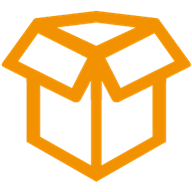
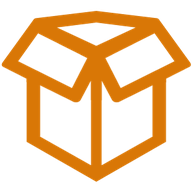
refactor: palette definitiva - brand oro/ambra + primary blu
- Logo convertito in oro/ambra (#D97706): caldo, professionale, premium
- Bottoni primari tornati al blu (#1e40af): professionalità e familiarita
- Brand oro usato per: link, active sidebar, badge, avatar, dot,
  gradienti login, focus input, loading bar
- Aggiunte variabili CSS --brand / --brand-light / --brand-bg
- theme-color aggiornato a #d97706
- Icone PWA e favicon rigenerate dal nuovo colore

Changed region(s): [[0.0, 0.0625, 1.0, 0.9375]]

diff --git a/logistic_hub/static/css/app.css b/logistic_hub/static/css/app.css
@@ -8,9 +8,12 @@
   --text: #0f172a;
   --text-secondary: #475569;
   --text-muted: #94a3b8;
-  --primary: #f39200;
-  --primary-light: #f6a832;
-  --primary-bg: #fff3e0;
+  --primary: #1e40af;
+  --primary-light: #3b82f6;
+  --primary-bg: #dbeafe;
+  --brand: #d97706;
+  --brand-light: #f6a832;
+  --brand-bg: #fffbeb;
   --accent: #0f172a;
   --navbar-bg: #0f172a;
   --navbar-text: #f8fafc;
@@ -19,9 +22,9 @@
   --navbar-input-border: #334155;
   --sidebar-bg: #ffffff;
   --sidebar-hover: #f1f5f9;
-  --sidebar-active: #fff3e0;
+  --sidebar-active: #fffbeb;
   --sidebar-text: #334155;
-  --sidebar-active-text: #f39200;
+  --sidebar-active-text: #d97706;
   --card-shadow: 0 1px 3px rgba(0,0,0,0.06), 0 1px 2px rgba(0,0,0,0.04);
   --card-shadow-hover: 0 4px 12px rgba(0,0,0,0.08);
   --radius: 8px;
@@ -52,9 +55,12 @@
     --text: #f1f5f9;
     --text-secondary: #94a3b8;
     --text-muted: #64748b;
-    --primary: #f6a832;
-    --primary-light: #f8c062;
-    --primary-bg: #3d2e00;
+    --primary: #3b82f6;
+    --primary-light: #60a5fa;
+    --primary-bg: #1e3a5f;
+    --brand: #f6a832;
+    --brand-light: #f8c062;
+    --brand-bg: #3d2e00;
     --accent: #f1f5f9;
     --navbar-bg: #020617;
     --navbar-text: #f1f5f9;
@@ -100,8 +106,8 @@ body {
 .login-page {
   display: flex; align-items: center; justify-content: center;
   min-height: 100vh; background: #0f172a;
-  background-image: radial-gradient(ellipse at top left, rgba(243,146,0,0.12), transparent 50%),
-                    radial-gradient(ellipse at bottom right, rgba(243,146,0,0.06), transparent 50%);
+  background-image: radial-gradient(ellipse at top left, rgba(217,119,6,0.12), transparent 50%),
+                    radial-gradient(ellipse at bottom right, rgba(217,119,6,0.06), transparent 50%);
 }
 .login-container { width: 100%; max-width: 400px; padding: 1.5rem; }
 .login-card {
@@ -118,7 +124,7 @@ body {
   width: 100%; padding: 0.75rem 1rem; background: #0f172a; border: 1px solid #334155;
   border-radius: var(--radius); color: #f8fafc; font-size: 0.95rem; outline: none; transition: border-color 0.15s;
 }
-.login-form .form-input:focus { border-color: var(--primary-light); box-shadow: 0 0 0 3px rgba(243,146,0,0.2); }
+.login-form .form-input:focus { border-color: var(--brand-light); box-shadow: 0 0 0 3px rgba(217,119,6,0.2); }
 .login-btn { width: 100%; padding: 0.75rem; margin-top: 0.5rem; font-size: 1rem; }
 .login-page .flash-message { margin-bottom: 1rem; }
 
@@ -159,7 +165,7 @@ body {
   border-left: 3px solid transparent;
 }
 .sidebar-item:hover { background: var(--sidebar-hover); }
-.sidebar-item.active { background: var(--sidebar-active); color: var(--sidebar-active-text); border-left-color: var(--primary-light); }
+.sidebar-item.active { background: var(--sidebar-active); color: var(--sidebar-active-text); border-left-color: var(--brand); }
 .sidebar-item svg { flex-shrink: 0; }
 
 .main-content {
@@ -199,7 +205,7 @@ body {
   background: var(--navbar-input-bg); border: 1px solid var(--navbar-input-border); border-radius: var(--radius);
   color: var(--navbar-text); font-size: 0.85rem; outline: none; transition: border-color 0.15s;
 }
-.search-input:focus { border-color: var(--primary-light); background: var(--navbar-input-bg); }
+.search-input:focus { border-color: var(--brand-light); background: var(--navbar-input-bg); }
 .search-input::placeholder { color: var(--navbar-muted); }
 .search-results {
   position: absolute; top: calc(100% + 4px); left: 0; right: 0;
@@ -246,7 +252,7 @@ body {
 .notif-panel.open, .user-panel.open { display: block; }
 .notif-header { display: flex; justify-content: space-between; align-items: center; padding: 1rem; border-bottom: 1px solid var(--border); }
 .notif-header strong { font-size: 0.85rem; }
-.notif-mark-all { font-size: 0.75rem; color: var(--primary-light); text-decoration: none; }
+.notif-mark-all { font-size: 0.75rem; color: var(--brand-light); text-decoration: none; }
 .notif-list { max-height: 320px; overflow-y: auto; }
 .notif-item { display: flex; gap: 0.75rem; padding: 0.75rem 1rem; text-decoration: none; color: var(--text); border-left: 3px solid transparent; transition: background 0.1s; }
 .notif-item:hover { background: var(--surface-hover); }
@@ -254,7 +260,7 @@ body {
 .notif-item.notif-error { border-left-color: var(--error); }
 .notif-item.notif-warning { border-left-color: var(--warning); }
 .notif-item.notif-info { border-left-color: var(--info); }
-.notif-dot { width: 8px; height: 8px; border-radius: 50%; background: var(--primary-light); margin-top: 5px; flex-shrink: 0; }
+.notif-dot { width: 8px; height: 8px; border-radius: 50%; background: var(--brand-light); margin-top: 5px; flex-shrink: 0; }
 .notif-content { flex: 1; min-width: 0; }
 .notif-title { font-size: 0.8rem; font-weight: 600; }
 .notif-msg { font-size: 0.75rem; color: var(--text-secondary); margin-top: 1px; white-space: nowrap; overflow: hidden; text-overflow: ellipsis; }
@@ -267,7 +273,7 @@ body {
 }
 .user-btn:hover { background: rgba(255,255,255,0.08); }
 .user-avatar {
-  width: 32px; height: 32px; border-radius: 50%; background: var(--primary-light);
+  width: 32px; height: 32px; border-radius: 50%; background: var(--brand);
   color: white; font-size: 0.75rem; font-weight: 700; display: flex; align-items: center; justify-content: center;
   flex-shrink: 0;
 }
@@ -296,7 +302,7 @@ body {
 /* BREADCRUMBS */
 .breadcrumbs { display: flex; align-items: center; gap: 0.4rem; margin-bottom: 0.75rem; font-size: 0.78rem; flex-wrap: wrap; }
 .breadcrumb-link { color: var(--text-muted); text-decoration: none; transition: color 0.1s; }
-.breadcrumb-link:hover { color: var(--primary-light); }
+.breadcrumb-link:hover { color: var(--brand-light); }
 .breadcrumb-sep { color: var(--text-muted); font-size: 0.7rem; }
 .breadcrumb-current { color: var(--text-secondary); font-weight: 500; }
 
@@ -313,7 +319,7 @@ body {
   cursor: pointer; text-decoration: none; transition: all 0.15s; line-height: 1.4;
 }
 .btn-primary { background: var(--primary); color: white; }
-.btn-primary:hover { background: #d97f00; }
+.btn-primary:hover { background: #1e3a8a; }
 .btn-secondary { background: var(--primary-bg); color: var(--primary); }
 .btn-secondary:hover { background: color-mix(in srgb, var(--primary-bg) 80%, var(--primary)); }
 .btn-danger { background: var(--error-bg); color: var(--error); }
@@ -338,7 +344,7 @@ body {
 .cliente-header { display: flex; align-items: center; gap: 1rem; margin-bottom: 1rem; }
 .cliente-avatar {
   width: 48px; height: 48px; border-radius: 12px;
-  background: linear-gradient(135deg, var(--primary-light), var(--primary));
+  background: linear-gradient(135deg, var(--brand-light), var(--brand));
   display: flex; align-items: center; justify-content: center;
   font-weight: 700; font-size: 1.25rem; color: #fff; flex-shrink: 0;
 }
@@ -413,7 +419,7 @@ body {
 .card { background: var(--surface); border-radius: var(--radius-lg); border: 1px solid var(--border); box-shadow: var(--card-shadow); }
 .card-header { display: flex; justify-content: space-between; align-items: center; padding: 1rem 1.5rem; border-bottom: 1px solid var(--border); font-weight: 600; color: var(--text); }
 .card-header h3 { font-size: 0.9rem; font-weight: 700; }
-.card-link { font-size: 0.78rem; color: var(--primary-light); text-decoration: none; }
+.card-link { font-size: 0.78rem; color: var(--brand); text-decoration: none; }
 .card-link:hover { text-decoration: underline; }
 .card-body { padding: 1rem 1.25rem; }
 
@@ -421,7 +427,7 @@ body {
 .activity-feed { display: flex; flex-direction: column; gap: 0; }
 .activity-item { display: flex; gap: 0.75rem; padding: 0.6rem 0; border-bottom: 1px solid var(--border-light); }
 .activity-item:last-child { border-bottom: none; }
-.activity-dot { width: 8px; height: 8px; border-radius: 50%; background: var(--primary-light); margin-top: 6px; flex-shrink: 0; }
+.activity-dot { width: 8px; height: 8px; border-radius: 50%; background: var(--brand-light); margin-top: 6px; flex-shrink: 0; }
 .activity-content { flex: 1; min-width: 0; }
 .activity-text { font-size: 0.82rem; color: var(--text); }
 .activity-time { font-size: 0.72rem; color: var(--text-muted); margin-top: 0.1rem; }
@@ -430,7 +436,7 @@ body {
 .doc-list { display: flex; flex-direction: column; }
 .doc-item { display: flex; align-items: center; gap: 0.75rem; padding: 0.6rem 0; text-decoration: none; color: var(--text); border-bottom: 1px solid var(--border-light); }
 .doc-item:last-child { border-bottom: none; }
-.doc-item:hover .doc-name { color: var(--primary-light); }
+.doc-item:hover .doc-name { color: var(--brand); }
 .doc-icon { color: var(--text-muted); flex-shrink: 0; }
 .doc-info { flex: 1; min-width: 0; }
 .doc-name { font-size: 0.82rem; font-weight: 500; transition: color 0.15s; }
@@ -467,7 +473,7 @@ body {
   background: var(--surface); color: var(--text-secondary); text-decoration: none;
   border: 1px solid var(--border); transition: all 0.15s;
 }
-.filter-chip:hover { border-color: var(--primary-light); color: var(--primary); }
+.filter-chip:hover { border-color: var(--brand-light); color: var(--brand); }
 .filter-chip.active { background: var(--primary); color: white; border-color: var(--primary); }
 
 /* TABLES */
@@ -478,7 +484,7 @@ table.table thead tr, .data-table thead tr { border-bottom: 2px solid var(--bord
 table.table tbody td, .data-table td { padding: 0.625rem 1rem; border-bottom: 1px solid var(--border-light); color: var(--text); }
 table.table tbody tr:hover, .data-table tbody tr:hover { background: var(--surface-hover); }
 table.table tbody tr { border-bottom: 1px solid var(--border-light); }
-.table-link { color: var(--primary-light); text-decoration: none; font-weight: 600; }
+.table-link { color: var(--brand); text-decoration: none; font-weight: 600; }
 .table-link:hover { text-decoration: underline; }
 .actions-cell { white-space: nowrap; display: flex; gap: 0.25rem; }
 .actions-cell .btn { font-size: 0.75rem; }
@@ -517,7 +523,7 @@ table.table tbody tr { border-bottom: 1px solid var(--border-light); }
   border-radius: var(--radius-sm); color: var(--text); font-size: 0.9rem; outline: none;
   transition: border-color 0.15s, box-shadow 0.15s; font-family: inherit;
 }
-.form-input:focus { border-color: var(--primary-light); box-shadow: 0 0 0 3px rgba(243,146,0,0.15); }
+.form-input:focus { border-color: var(--brand-light); box-shadow: 0 0 0 3px rgba(217,119,6,0.15); }
 .form-textarea { resize: vertical; min-height: 70px; }
 select.form-input { appearance: auto; }
 .form-hint { font-size: 0.75rem; color: var(--text-muted); margin-top: 0.25rem; display: block; }
@@ -561,7 +567,7 @@ select.form-input { appearance: auto; }
 .timeline-item { display: flex; gap: 1rem; padding: 0.75rem 0; position: relative; margin-left: 0.5rem; }
 .timeline-item::before { content: ''; position: absolute; left: 3px; top: 28px; bottom: -8px; width: 2px; background: var(--border); }
 .timeline-item:last-child::before { display: none; }
-.timeline-dot { width: 8px; height: 8px; border-radius: 50%; background: var(--primary-light); margin-top: 5px; flex-shrink: 0; position: relative; z-index: 1; }
+.timeline-dot { width: 8px; height: 8px; border-radius: 50%; background: var(--brand-light); margin-top: 5px; flex-shrink: 0; position: relative; z-index: 1; }
 .timeline-content { flex: 1; min-width: 0; }
 .timeline-user { font-size: 0.8rem; font-weight: 700; color: var(--text); }
 .timeline-action { font-size: 0.82rem; color: var(--text-secondary); margin-top: 0.1rem; }
@@ -607,7 +613,7 @@ select.form-input { appearance: auto; }
 }
 .loading-card-icon {
   width: 40px; height: 40px; border-radius: var(--radius);
-  background: var(--primary-bg); color: var(--primary-light);
+  background: var(--brand-bg); color: var(--brand-light);
   display: flex; align-items: center; justify-content: center; flex-shrink: 0;
 }
 .loading-card-icon svg { width: 20px; height: 20px; }
@@ -631,7 +637,7 @@ select.form-input { appearance: auto; }
 }
 .progress-indeterminate::after {
   content: ''; position: absolute; top: 0; left: 0; height: 100%; width: 40%;
-  background: linear-gradient(90deg, transparent, var(--primary-light), transparent);
+  background: linear-gradient(90deg, transparent, var(--brand-light), transparent);
   border-radius: 2px;
   animation: progress-shimmer 1.4s ease-in-out infinite;
 }

diff --git a/logistic_hub/templates/base.html b/logistic_hub/templates/base.html
@@ -3,7 +3,7 @@
 <head>
     <meta charset="UTF-8">
     <meta name="viewport" content="width=device-width, initial-scale=1.0">
-    <meta name="theme-color" content="#f39200">
+    <meta name="theme-color" content="#d97706">
     <meta name="apple-mobile-web-app-capable" content="yes">
     <meta name="apple-mobile-web-app-status-bar-style" content="default">
     <meta name="csrf-token" content="{{ csrf_token() }}">

diff --git a/logistic_hub/templates/login.html b/logistic_hub/templates/login.html
@@ -3,7 +3,7 @@
 <head>
     <meta charset="UTF-8">
     <meta name="viewport" content="width=device-width, initial-scale=1.0">
-    <meta name="theme-color" content="#f39200">
+    <meta name="theme-color" content="#d97706">
     <link rel="icon" type="image/png" href="/static/img/favicon.png">
     <title>Logistic Hub - Accesso</title>
     <link rel="stylesheet" href="/static/css/app.css?v={{ css_mtime }}">
